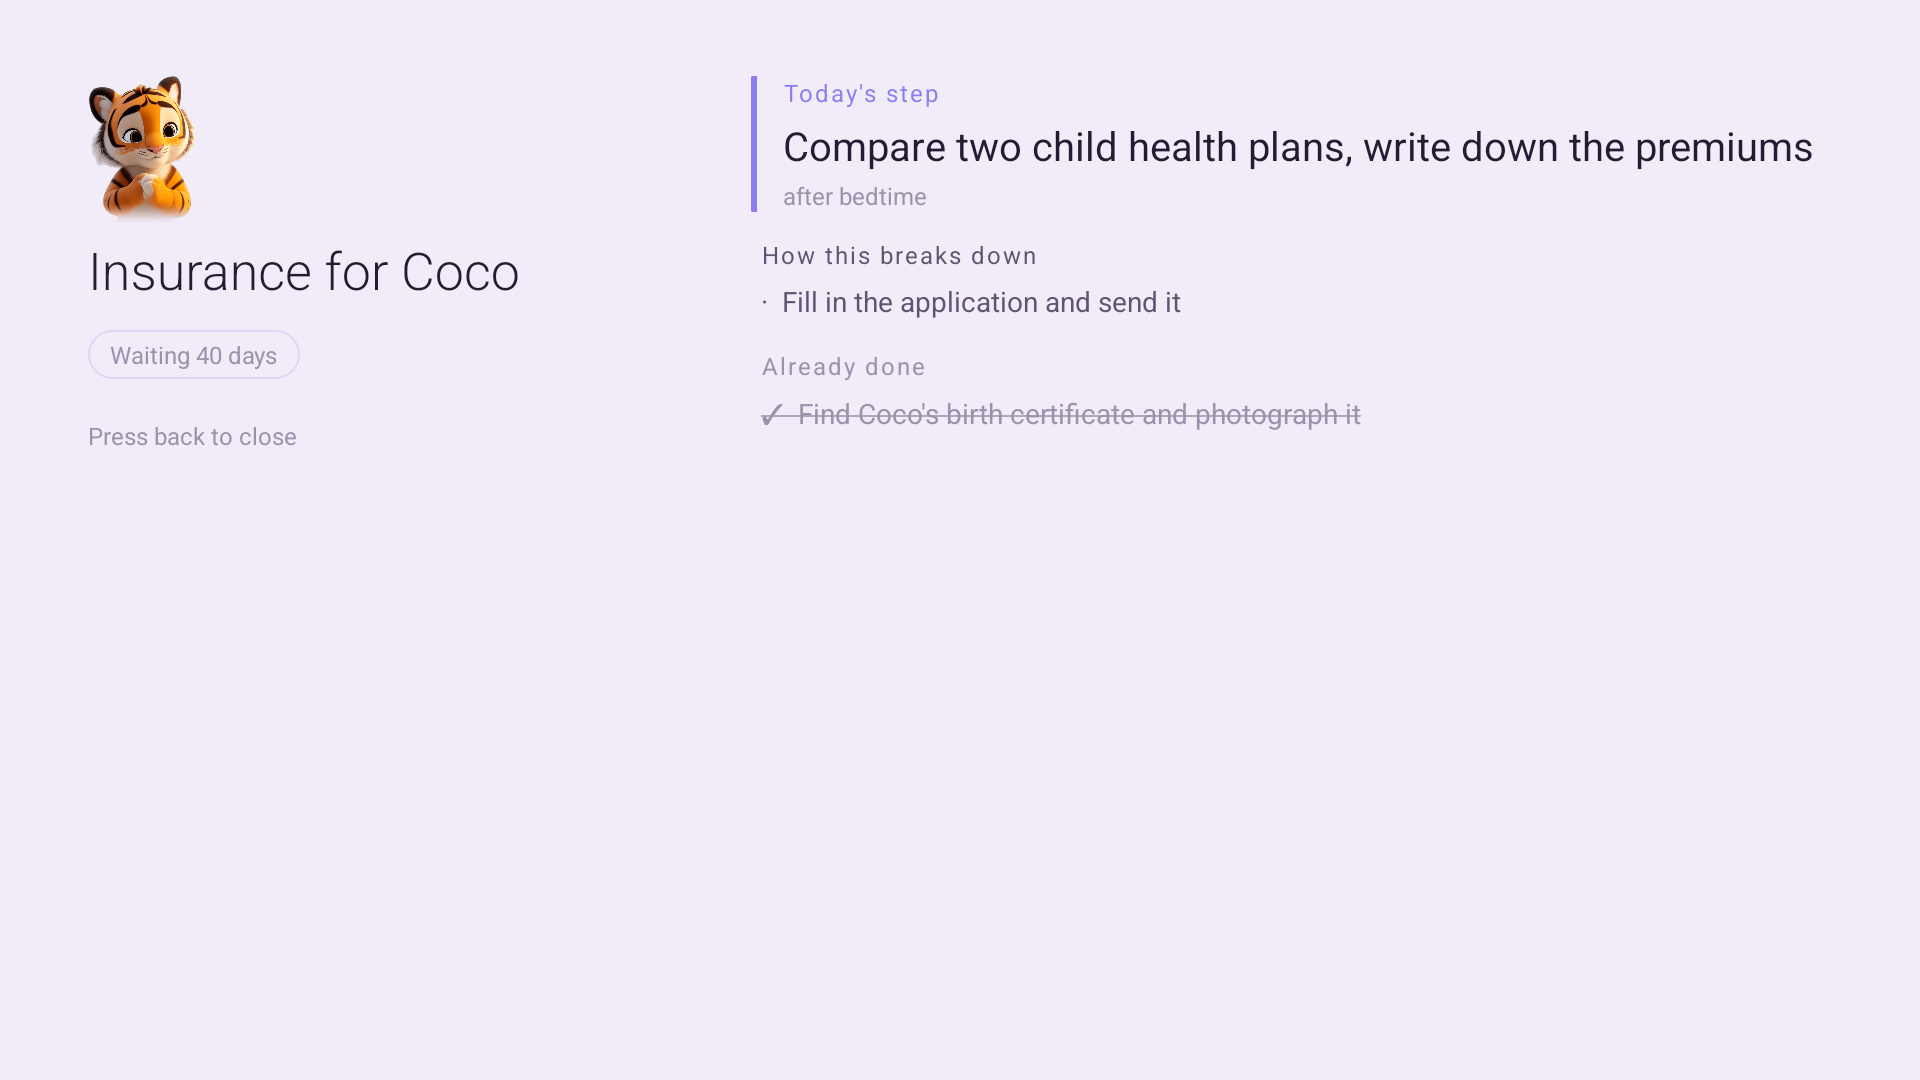
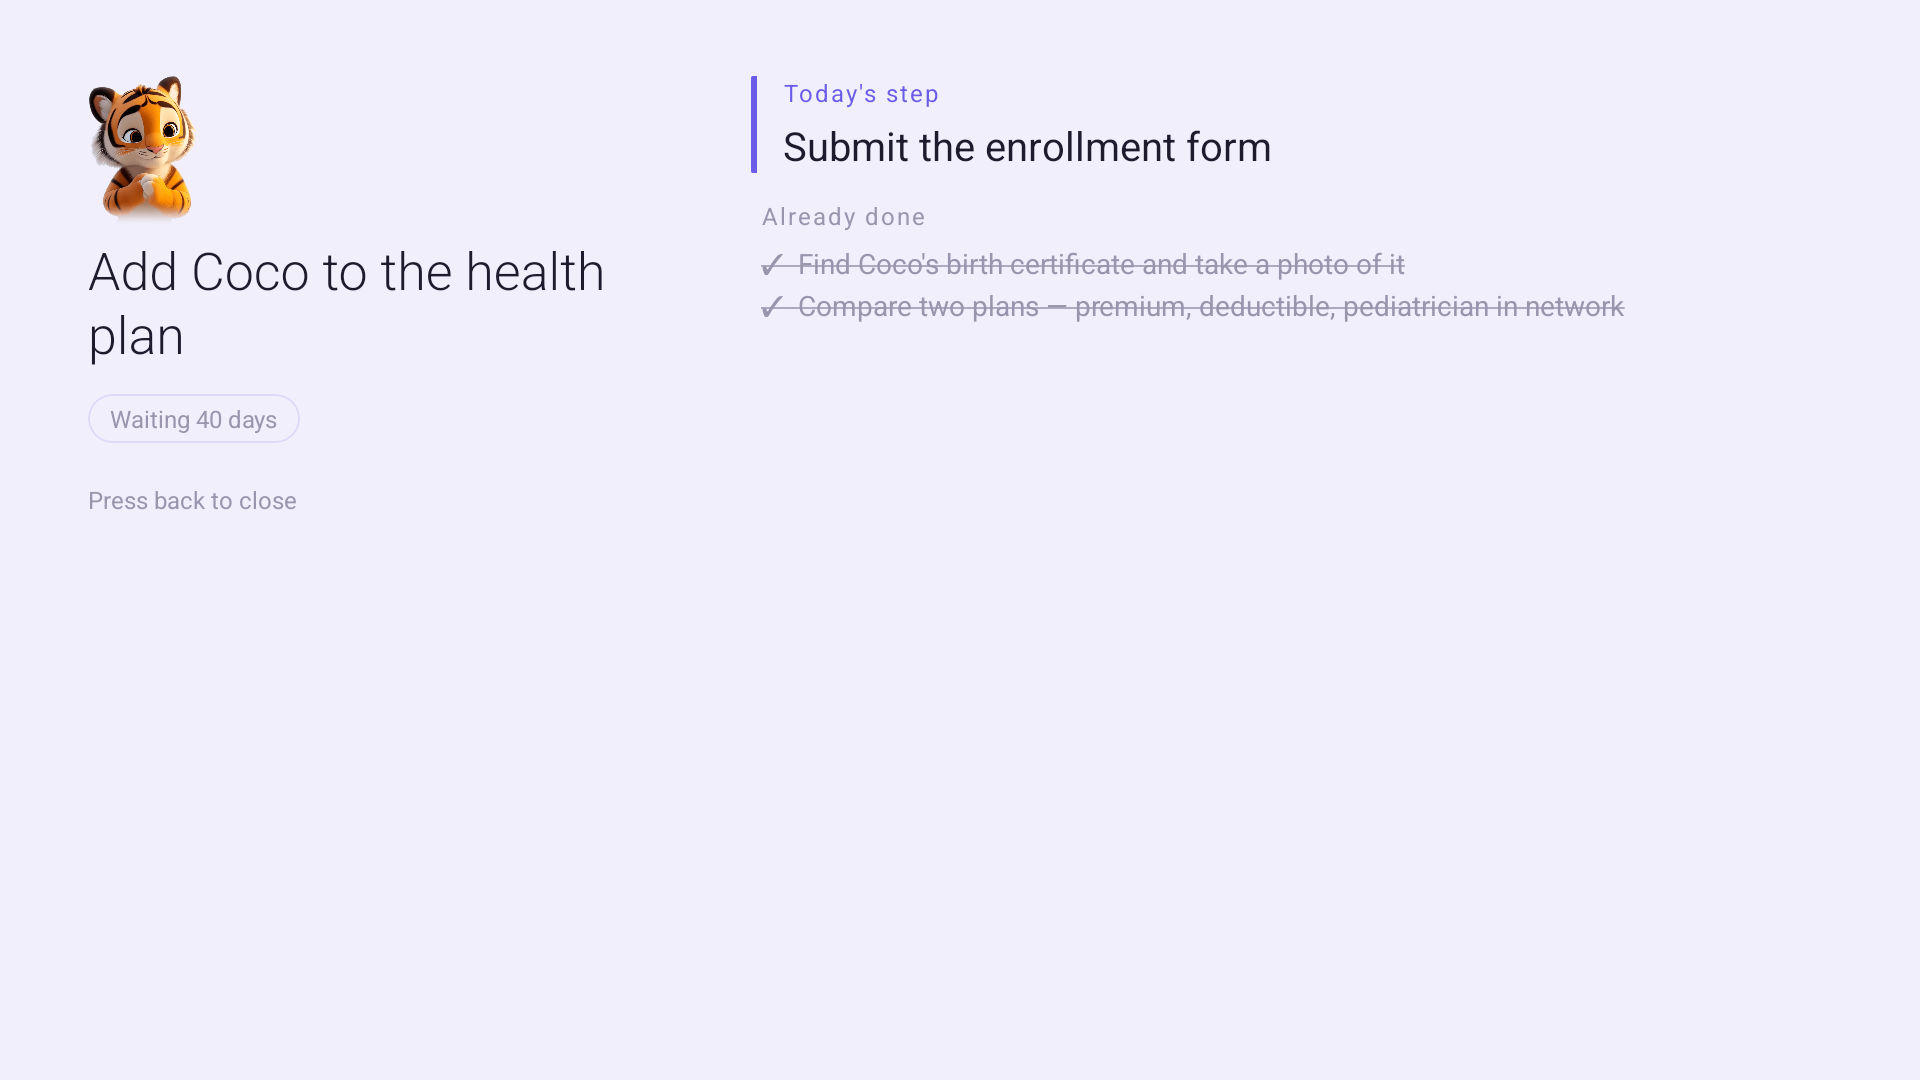
重拍截图；手机卡片去重；指南的分隔不再随时段消失
全套截图换成布鲁克林那家：电视主屏、按进去的指南、拆解、手机对话、launch。
落地页和 README 里跟旧家庭对不上的例子也改了（「是给他办」→「是只给小的，
还是大的也要」）。

拍的过程里逮到三处：

一、指南的分卡在清晨那档看不见——surface 是半透明白，压在清晨偏冷的背景上
几乎同色。分隔不能靠填充，改成左边一道主色竖线，任何时段都看得见，
而且比整圈描边省横向空间。

二、key 被从词中间截断（「Saturday…」）。上限放宽到 14，并在提示里写死
key 只写一两个词——「周六营业时间」这种本来就不该当 key。

三、手机那张卡上七个 chip、三组重复：「Add Coco to the health plan」和
「Insurance for Coco」、「See the dentist」和「Her own dentist」、
还有一条和今天的任务重复。电视端早就做了归一化去重，手机这边还是精确匹配。
改完发现子串也不够——「Sign Stelle's conference form」和「Sign and return
Stelle's conference form」中间插了两个词，谁也不包含谁。改成按词重合算：
短的那组七成以上的词出现在另一组，就是同一件事。现在四个封顶，没有重复。

diff --git a/Today/src/agent/prompt.js b/Today/src/agent/prompt.js
@@ -268,6 +268,8 @@ need 只用来查**事实**：地方、时间、价格、怎么办理。
 
 所以：
 - 内容放 **guide**，每个方案几条 **key: value**。
+  **k 只写一两个词**（时间、价位、适合、在哪、怎么去）——
+  写成「周六营业时间」这种，电视上会被截成「周六营业…」。
   时间、价位、适合几岁、怎么去——**值最多五六个词**。
   「10:00–16:00」「免费」「4 岁刚好」是值；
   「适合让她跑一跑而你能坐下来喝杯咖啡」不是值，那是一句话，放 note 里。
@@ -320,6 +322,10 @@ need 只用来查**事实**：地方、时间、价格、怎么办理。
   你要说的是你接了什么、今天这一步在哪儿，不是她该做什么。
 
 label 要短，电视上一行要放得下，中文不超过 14 个字。
+
+**上面「今天已经排好的」里，开头那种方括号记号是我标给你看的状态，
+不是标题的一部分。** 重写某一条时只写标题本身——
+见过它把「open」抄进标题，电视上就成了「open 签表格」。
 
 不管记忆里的内容是什么语言，你一律用中文回答。
 
@@ -536,6 +542,8 @@ What to do:
 
    So:
    - The content goes in **guide**, a few **key: value** facts per option.
+     **The key is one or two words** (When, Cost, Suits, Where, Travel).
+     Write "Saturday opening hours" and the television cuts it to "Saturday…".
      Time, price, what age it suits, how to get there — **a value is five or six
      words at most**. "10:00–16:00", "free", "suits four" are values.
      "Good for letting her run about while you sit down with a coffee" is not a
@@ -596,6 +604,11 @@ What to do:
 
 Keep labels short enough for one line on a TV.
 
+**In "Already planned today" above, the bracket marks at the start of each line
+are status I put there for you — they are not part of the label.** When you restate an item, write the
+label only. It has copied "open" into a label before, and the television then
+read "open Sign the form".
+
 Always reply in English, whatever language the remembered notes are in.
 
 Output JSON only, nothing else:
@@ -609,8 +622,12 @@ ${SHAPE}
  */
 function currentBlock(cur, zh) {
   if (!cur?.focus?.length) return '';
+  // 状态用符号，不用词。
+  // 原来写的是 `[1] open 标题`——中间没有分隔，模型把「open」当成标题的
+  // 一部分抄了回来，电视上就出现了「open Sign Stelle's form」。
+  // 符号不会被误当成文字。
   const lines = cur.focus.map(
-    t => `  [${t.id}] ${t.done ? (zh ? '已完成' : 'done') : (zh ? '未完成' : 'open')} ` +
+    t => `  [${t.id}] ${t.done ? '[x]' : '[ ]'} ` +
          `${t.label}${t.note ? `（${t.note}）` : ''}${t.forHer ? (zh ? ' ←给她自己的' : ' ←hers') : ''}`,
   );
   const later = cur.later?.length

diff --git a/Today/server/phone.html b/Today/server/phone.html
@@ -1276,12 +1276,36 @@ function drawChat(box) {
         const ch = el('chips');
         // 模型给的「以后」不一定把在推的事都写上，但有指南的那件事必须够得着——
         // 查回来的东西点不开，等于没查。所以缺的补进来，有内容的排前面。
-        const named = new Set(later.items.map(t => tidy(t)));
+        //
+        // 去重要宽：模型每轮措辞都不一样（「Add Coco to the health plan」和
+        // 「Insurance for Coco」、「See the dentist」和「Her own dentist」），
+        // 精确匹配一个都拦不住，卡片上就并排站着三组同义的。
+        // 已经在今天任务里的也别再出现一次。
+        // 子串匹配不够：「Sign Stelle's conference form」和
+        // 「Sign and return Stelle's conference form」中间插了两个词，
+        // 谁也不包含谁，于是并排站着。按词重合算——短的那组里
+        // 七成以上的词出现在另一组，就是同一件事。
+        const words = t => String(t || '').toLowerCase()
+          .split(/[^a-z\u4e00-\u9fa5]+/).filter(w => w.length > 2);
+        const same = (a, b) => {
+          const A = words(a), B = words(b);
+          if (!A.length || !B.length) return false;
+          const [s1, s2] = A.length <= B.length ? [A, B] : [B, A];
+          const hit = s1.filter(w => s2.includes(w)).length;
+          return hit / s1.length >= 0.7;
+        };
+        const seen = [];
+        const dup = t => !tidy(t) || seen.some(x => x === tidy(t) || same(x, t));
+        const take = t => { seen.push(t); return t; };
+        for (const i of tasks?.items ?? []) seen.push(i.label);
+
         const missing = projCache
-          .filter(q => hasDepth(q) && !named.has(tidy(q.title)))
+          .filter(q => hasDepth(q) && !dup(q.title))
           .sort((a, c) => Number(!!c.guide) - Number(!!a.guide))
-          .map(q => q.title);
-        for (const s of [...missing, ...later.items]) {
+          .map(q => take(q.title));
+        const rest = later.items.filter(l => !dup(l)).map(take);
+        // 四个封顶。再多就不是「先收着的」，是又一张清单。
+        for (const s of [...missing, ...rest].slice(0, 4)) {
           const proj = projFor(s);
           const can = hasDepth(proj);
           const p = el('chip' + (can ? ' can' : ''), 'span');

diff --git a/doc/site/index.html b/doc/site/index.html
@@ -286,8 +286,10 @@
     </div>
 
     <p class="same">
-      <b>Same sentence, both screens:</b> “I'm holding the form for today — it's not going
-      anywhere.” One is a conversation. The other is a glance.
+      <b>Same sentence, both screens.</b> On the phone it runs to five or six lines,
+      because that is how you read something. On the television it is the first line
+      and no more, because that is how you glance at something. One answer, two ways
+      of meeting it.
     </p>
   </section>
 
@@ -308,7 +310,7 @@
       </div>
       <div class="turn it">
         <div class="who">Today</div>
-        <p class="said">“I'm keeping that one for you. Is this for him, or for you too?”</p>
+        <p class="said">“I'm keeping that one for you. Is it just the baby, or the older one too?”</p>
       </div>
       <div class="turn it">
         <div class="who">Then</div>
@@ -324,7 +326,7 @@
       <div class="cap">
         <h3>It breaks it down</h3>
         <p>Three to five steps, each finishable in one sitting, each with a moment that
-           actually fits — while she naps, after bedtime.</p>
+           actually fits — during the morning nap, after bedtime.</p>
       </div>
       <div class="cap">
         <h3>It asks exactly one question</h3>

diff --git a/Today/src/Detail.tsx b/Today/src/Detail.tsx
@@ -151,13 +151,14 @@ export function Detail({payload, daypart, lang, onClose}: Props) {
                       s.opt,
                       // 多个方案才给框。三米外，三段一模一样的字是一堵墙，
                       // 眼睛没有落点；一个方案的时候加框反而多余。
+                      // 分隔不能靠填充色——清晨那档 surface 和背景几乎同色，
+                      // 卡片就消失了。靠左边一道竖线：任何时段都看得见，
+                      // 而且比整圈描边省横向空间。
                       needsCards(proj.guide?.options) && {
-                        backgroundColor: p.surface,
-                        borderColor: p.border,
-                        borderWidth: 1,
-                        borderRadius: 14,
-                        paddingHorizontal: space.md,
-                        paddingVertical: space.sm,
+                        borderLeftWidth: 2,
+                        borderLeftColor: p.accent,
+                        paddingLeft: space.md,
+                        marginBottom: space.md,
                       },
                     ]}>
                     <Text style={[s.optName, {color: p.text}]} numberOfLines={1}>

diff --git a/Today/src/agent/projects.js b/Today/src/agent/projects.js
@@ -132,7 +132,7 @@ function cleanGuide(g, nowIso) {
       name: String(o?.name ?? '').trim().slice(0, 60),
       facts: (o?.facts ?? [])
         .map(f => ({
-          k: clip(f?.k, 10),
+          k: clip(f?.k, 14),
           v: clip(f?.v, 46),
         }))
         .filter(f => f.k && f.v)

diff --git a/README.zh.md b/README.zh.md
@@ -52,9 +52,9 @@ Today 是给一位家里有电视的全职妈妈做的。
 
 Today 不会往清单上加一条「办保险」。它把这件事**接过来**：
 
-**它只问一句。** 就一句——*「是给他办，还是你俩一起？」* 两句就成了表格，而一张表格足以让这件事再拖一个月。
+**它只问一句。** 就一句——*「是只给小的，还是大的也要？」* 两句就成了表格，而一张表格足以让这件事再拖一个月。
 
-**她答完就拆。** 四步，每步小到一次坐下就能做完，每步带一个真能落下去的时机：*趁他睡着*、*等他睡了之后*。
+**她答完就拆。** 四步，每步小到一次坐下就能做完，每步带一个真能落下去的时机：*趁早上那觉*、*等她睡了之后*。
 
 **每天只给她一步。** 从不把整个拆解倒给她。明天那一步自己会出现，她不用记「我进行到哪了」——「每天一点点」就是在这儿才成立的。
 

diff --git a/README.md b/README.md
@@ -67,11 +67,11 @@ She says, one evening: *"I keep putting off the insurance thing."*
 
 Today does not add **sort out insurance** to a list. It takes it:
 
-**It asks one question.** Exactly one — *"Is this for him, or for you too?"* Two
+**It asks one question.** Exactly one — *"Is it just the baby, or the older one too?"* Two
 questions is a form, and a form is how a thing gets put off for another month.
 
 **It breaks it down** once she answers. Four steps, each small enough to finish
-in one sitting, each with a time that fits the day: *while he naps*, *after
+in one sitting, each with a time that fits the day: *during the morning nap*, *after
 bedtime*.
 
 **It gives her one step a day.** Never the whole breakdown. Tomorrow's step
